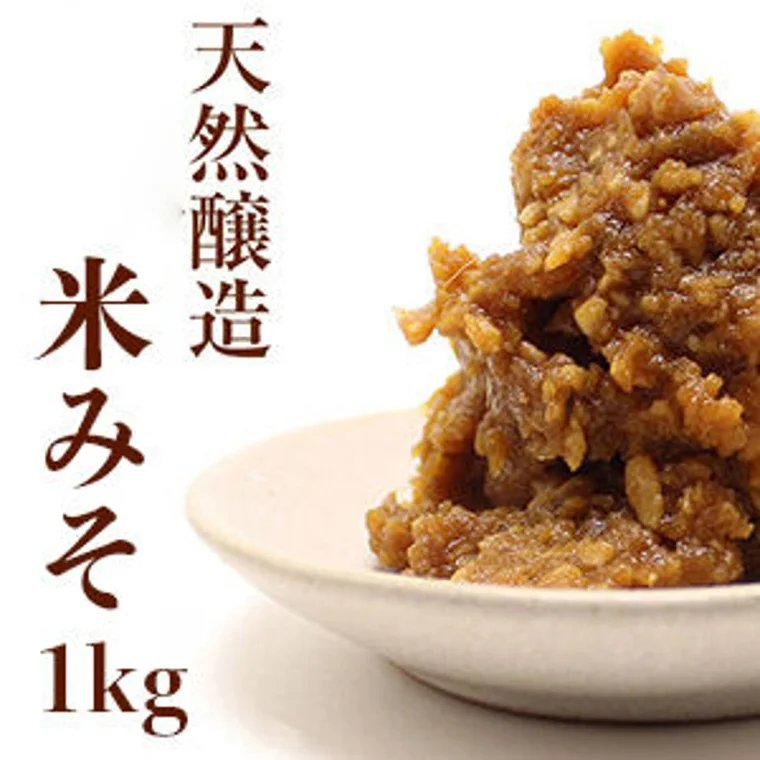
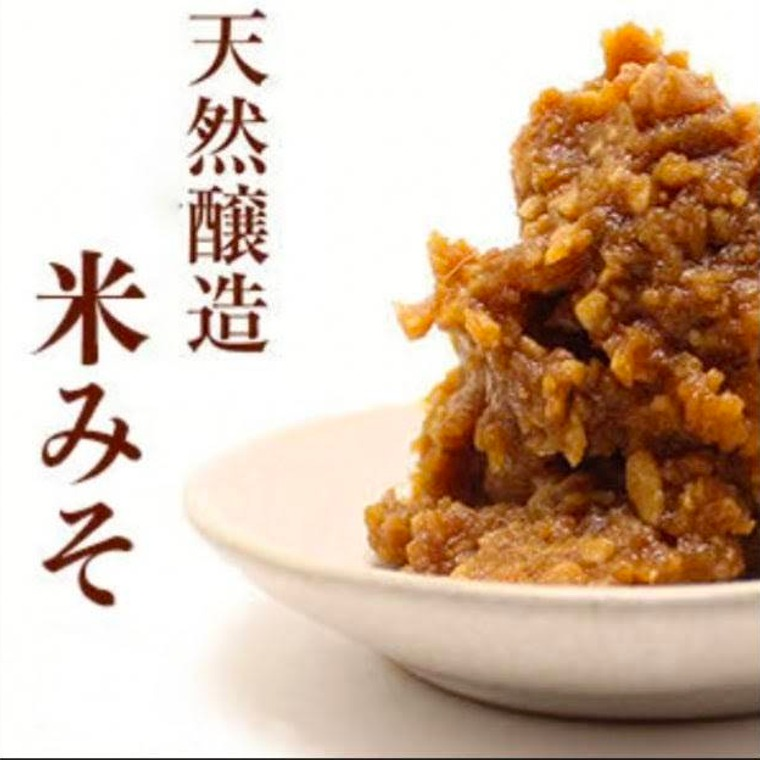
磯部様フィードバック反映: 表現修正・商品/認証書画像差し替え
- 「無農薬」表記を全箇所削除(種まき時の鳥害防止薬剤使用のため表示不可との指摘、ja/en両方)
- 「煮汁(味噌のたまり)」を「煮汁(あめ)」に修正(ja/en)
- 購入誘導文「道の駅や店頭でお買い求めいただけます」を削除(店舗情報・電話連絡先は維持)
- 甲州みそ・米みその商品写真を容量表記(1kg等)なしの新しい写真に差し替え
- ムスリムフレンドリー/ヴィーガンフレンドリーの認証書・ロゴマークを新しい提供画像から傾き補正の上再切り出し

diff --git a/data/products.ts b/data/products.ts
@@ -41,14 +41,14 @@ export const products: Product[] = [
       ja: [
         "麦麹と米麹を合わせた、香り高い合わせ味噌です。甘みは軽く、麦麹の香ばしさが立ちます。",
         "甲州味噌は、麦麹と米糀を合わせた「麦麹・米糀合わせ味噌」です。原材料は大豆・麹(麦麹+米糀)・塩のみ。",
-        "大豆には、山梨県富士吉田市(富士山麓)の契約農家専用栽培による無農薬の希少な青大豆を使用。油分が少なく糖度が高いため、甘みの強い味わいが特徴です。",
-        "天然醸造・無添加で、発酵を止めていない「生きた味噌」。加熱処理や発酵止めのアルコール添加は行わず、地釜で炊き上げた煮汁(味噌のたまり)を加えて仕込んでいます。",
+        "大豆には、山梨県富士吉田市(富士山麓)の契約農家専用栽培による希少な青大豆を使用。油分が少なく糖度が高いため、甘みの強い味わいが特徴です。",
+        "天然醸造・無添加で、発酵を止めていない「生きた味噌」。加熱処理や発酵止めのアルコール添加は行わず、地釜で炊き上げた煮汁(あめ)を加えて仕込んでいます。",
       ],
       en: [
         "A fragrant blended miso made with both barley koji and rice koji — koji being the mold-fermented grain starter used in traditional Japanese brewing. Its sweetness is light, with the toasty aroma of barley koji standing out.",
         "Koshu Miso is a blended miso made with both barley koji and rice koji. Its only ingredients are soybeans, koji (barley koji + rice koji), and salt.",
-        "The soybeans are a rare blue soybean variety grown without pesticides, exclusively by contracted farmers in Fujiyoshida at the foot of Mt. Fuji — low in oil and high in natural sugars, giving the miso its pronounced sweetness.",
-        "It is naturally brewed with no additives, a 'living miso' whose fermentation is never halted. It is made without heat treatment or alcohol to stop fermentation, cooked in a traditional earthen kettle (jigama) and finished by adding back its own simmered liquid (miso tamari).",
+        "The soybeans are a rare blue soybean variety grown exclusively by contracted farmers in Fujiyoshida at the foot of Mt. Fuji — low in oil and high in natural sugars, giving the miso its pronounced sweetness.",
+        "It is naturally brewed with no additives, a 'living miso' whose fermentation is never halted. It is made without heat treatment or alcohol to stop fermentation, cooked in a traditional earthen kettle (jigama) and finished by adding back its own simmered liquid (ame).",
       ],
     },
     // taste数値バーは根拠のない推測値のため、商品詳細・比較画面では非表示とする(TasteBar呼び出し停止)。
@@ -130,12 +130,12 @@ export const products: Product[] = [
       ja: [
         "クセがなく、どなたにも親しみやすいまろやかな甘みの味噌です。",
         "米味噌は、大豆・米麹・食塩のみを原材料とする味噌です。麹は米麹のみで、合わせ味噌ではありません。",
-        "天然醸造・無添加で、発酵を止めていない「生きた味噌」。加熱処理や発酵止めのアルコール添加は行わず、地釜で炊き上げた煮汁(味噌のたまり)を加えて仕込んでいます。",
+        "天然醸造・無添加で、発酵を止めていない「生きた味噌」。加熱処理や発酵止めのアルコール添加は行わず、地釜で炊き上げた煮汁(あめ)を加えて仕込んでいます。",
       ],
       en: [
         "A mellow, gently sweet miso with no strong edge, approachable for everyone.",
         "Rice Miso is made using only soybeans, rice koji (a mold-fermented rice starter), and salt. The koji used is rice koji only — this is not a blended (awase) miso.",
-        "It is naturally brewed with no additives, a 'living miso' whose fermentation is never halted. It is made without heat treatment or alcohol to stop fermentation, cooked in a traditional earthen kettle (jigama) and finished by adding back its own simmered liquid (miso tamari).",
+        "It is naturally brewed with no additives, a 'living miso' whose fermentation is never halted. It is made without heat treatment or alcohol to stop fermentation, cooked in a traditional earthen kettle (jigama) and finished by adding back its own simmered liquid (ame).",
       ],
     },
     // taste数値バーは根拠のない推測値のため、商品詳細・比較画面では非表示とする(TasteBar呼び出し停止)。

diff --git a/app/[locale]/producer/page.tsx b/app/[locale]/producer/page.tsx
@@ -125,7 +125,7 @@ export default function ProducerPage({ params }: PageProps) {
           />
         </div>
         <p className="mt-4 text-base text-sumi-soft">
-          {highlightKeywords(p.soybeanBody1, ["無農薬の青大豆"])}
+          {highlightKeywords(p.soybeanBody1, ["青大豆"])}
         </p>
         <p className="mt-2 text-base text-sumi-soft">
           {highlightKeywords(p.soybeanBody2, ["甘みの強い味わい"])}
@@ -180,15 +180,15 @@ export default function ProducerPage({ params }: PageProps) {
           <Image
             src="/images/certification/yfdc-muslim-friendly-appendix.jpg"
             alt={p.certMuslimAlt}
-            width={1000}
-            height={1777}
+            width={1016}
+            height={1339}
             className="h-auto w-full rounded-card border border-miso-light/30 object-cover shadow-paper"
           />
           <Image
             src="/images/certification/yfdc-vegan-friendly-appendix.jpg"
             alt={p.certVeganAlt}
-            width={1000}
-            height={1777}
+            width={1016}
+            height={1339}
             className="h-auto w-full rounded-card border border-miso-light/30 object-cover shadow-paper"
           />
         </div>
@@ -214,7 +214,6 @@ export default function ProducerPage({ params }: PageProps) {
             <dd className="mt-0.5">{producer.phone}</dd>
           </div>
         </dl>
-        <p className="mt-4 text-base text-sumi-soft">{dict.home.purchaseInfoText}</p>
         <div className="mt-6 flex flex-col items-center gap-3 sm:flex-row sm:justify-center">
           <LinkButton href={`/${locale}/products`}>{dict.common.viewProducts}</LinkButton>
           <LinkButton href={`/${locale}/experience`} variant="secondary">

diff --git a/app/[locale]/products/[slug]/page.tsx b/app/[locale]/products/[slug]/page.tsx
@@ -22,7 +22,7 @@ const BODY_KEYWORDS: Partial<Record<ProductId, string[][]>> = {
   "koshu-miso": [
     [],
     ["麦麹・米糀合わせ味噌"],
-    ["無農薬の希少な青大豆", "甘みの強い味わい"],
+    ["希少な青大豆", "甘みの強い味わい"],
     ["天然醸造・無添加", "生きた味噌"],
   ],
   "rice-miso": [
@@ -96,7 +96,6 @@ export default async function ProductDetailPage({ params }: PageProps) {
               <div className="mt-4">
                 <SpecTable product={product} locale={locale} dict={dict} />
               </div>
-              <p className="t-body mt-4 text-sumi-soft">{dict.home.purchaseInfoText}</p>
             </div>
           </div>
         </div>

diff --git a/app/[locale]/page.tsx b/app/[locale]/page.tsx
@@ -139,7 +139,6 @@ export default async function HomePage({ params }: PageProps) {
       {/* ⑤ 購入案内: 配送・EC関連は一切含めない */}
       <Section tone="kinari-deep">
         <h2 className="text-[28px]">{h.purchaseTitle}</h2>
-        <p className="mt-3 text-base text-sumi-soft">{h.purchaseInfoText}</p>
         <p className="mt-4 text-base">
           <Link
             href={`tel:${producer.phone.replace(/-/g, "")}`}
